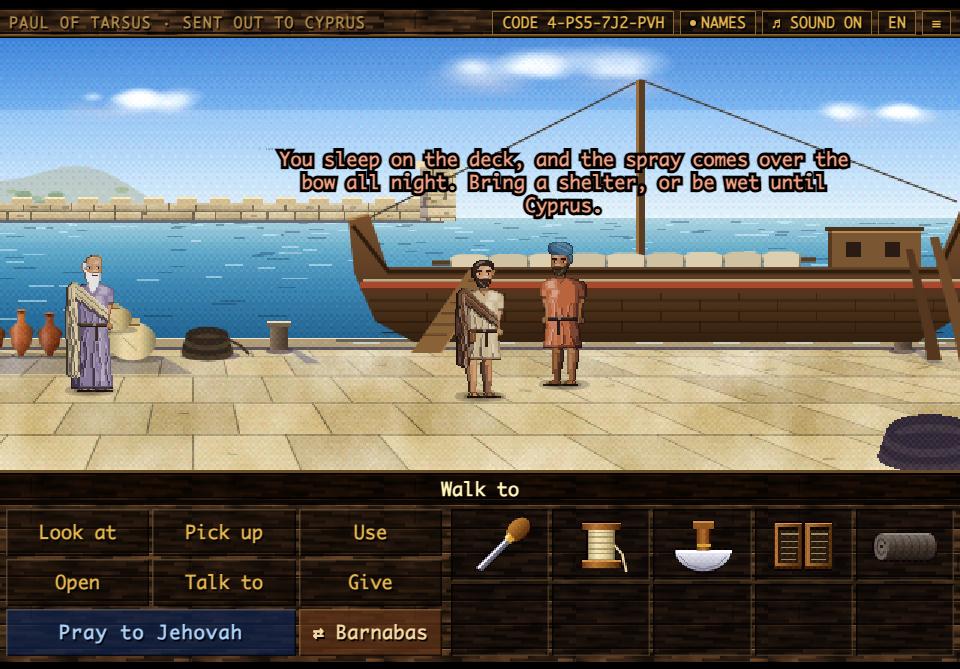
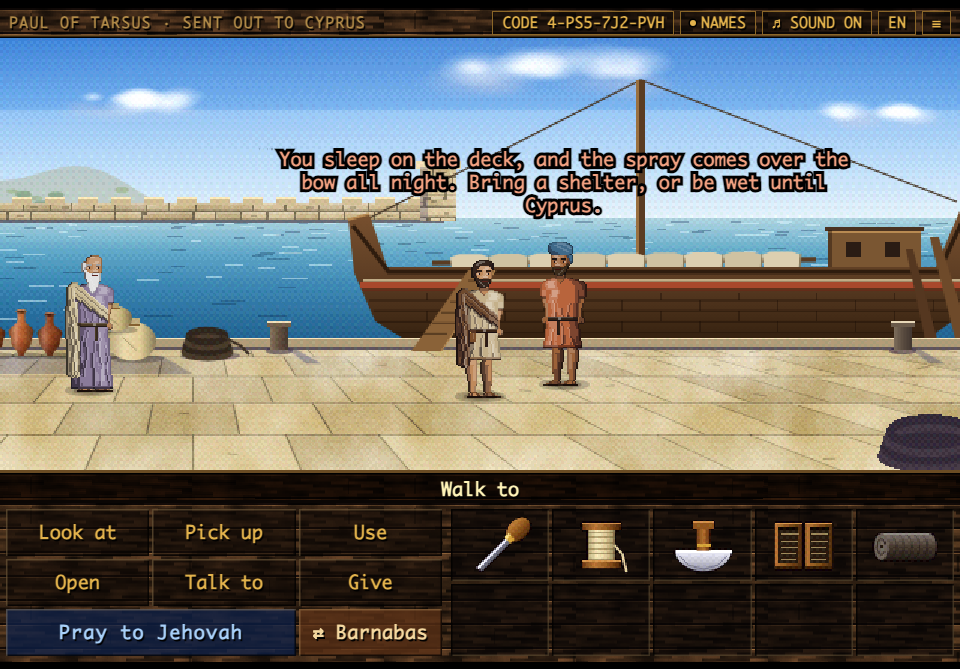
Chapter Four: clip the moored ship and her steering oars behind the quay

diff --git a/levels/chapter4.js b/levels/chapter4.js
@@ -41,7 +41,8 @@ function baggage(g,x,y){roll(g,x,y-5,17,5,'#8a5a4a');roll(g,x+3,y-9.6,15,4.6,'#6
    In harbor the yard is lowered to the rail with the sail furled on it, and the mast stands bare between its stays. Under sail (o.sail)
    the mast stops at the yard, so that the two never make a cross. o.plank: the gangplank to the quay; o.tent: our shelter on the
    foredeck; o.figs: a painter for the people on deck, who stand behind the rail. */
-function ship(g,X,Y,t,o){o=o||{};const y=Y+Math.round(Math.sin(t/900)*2)/2,PL=(p,c)=>poly(g,p.map((v,i)=>i%2?v+y:v+X),c),SK=(p,c,w)=>stroke(g,p.map((v,i)=>i%2?v+y:v+X),c,w),H=(a,b,w,h,c)=>R(g,X+a,b+y,w,h,c);
+function ship(g,X,Y,t,o){o=o||{};const y=Y+Math.round(Math.sin(t/900)*2)/2,PL=(p,c)=>poly(g,p.map((v,i)=>i%2?v+y:v+X),c),SK=(p,c,w)=>stroke(g,p.map((v,i)=>i%2?v+y:v+X),c,w),H=(a,b,w,h,c)=>R(g,X+a,b+y,w,h,c),
+  body=()=>{
   /* stays and mast */
   SK([97.5,13.4,6,60],'#4a3a2a',.6);SK([97.5,13.4,203,54],'#4a3a2a',.6);H(96,13.4,3.2,64,'#5a3c22');H(96,13.4,1,64,'#9a7040');
   if(o.sail){PL([50,15.4,146,11,146,13.6,50,18],'#5a3c22');SK([50,15.6,146,11.2],'#9a7040',.5);const sp=[53,17];for(let j=0;j<=10;j++)sp.push(51-Math.sin(j/10*3.1416)*6,17+j*4.4);for(let i=0;i<=10;i++)sp.push(51+i*9.2,61+Math.sin(i/10*3.1416)*3.5);for(let j=10;j>=0;j--)sp.push(143-Math.sin(j/10*3.1416)*4,13+j*4.8);
@@ -56,17 +57,25 @@ function ship(g,X,Y,t,o){o=o||{};const y=Y+Math.round(Math.sin(t/900)*2)/2,PL=(p
     SK([22,77,34,62.6,72,62.6,84,77],'#8a7a5a',.7);for(const q of[26,40,66,80])SK([q,74.6,q+1,77.4],'#8a7a5a',.6)}
   if(o.figs)o.figs(X,y);
   /* hull */
-  const hull=[0,60,7,58,13,76,196,76,204,57,212,52,211,66,203,93,190,101,22,101,9,94,2,78];
-  g.fillStyle=lg(g,0,56+y,0,101+y,['#7a5230','#5e3e24','#33200f']);g.beginPath();hull.forEach((v,i)=>{if(i%2)return;i?g.lineTo(X+v,hull[i+1]+y):g.moveTo(X+v,hull[i+1]+y)});g.closePath();g.fill();
-  SK([1.5,62,13.5,77.6,197,77.6,206,58],'#2e1c0e',1.4);SK([4,82,205,82],'#a8482c',2);SK([4,83.6,205,83.6],'#6a2a18',.6);SK([5,80.4,205,80.4],'#e2d2a8',.6);
-  /* strakes, their butt joints staggered from one to the next like courses of brick */
-  for(let j=0;j<4;j++){SK([7+j*1.4,87+j*3.6,204-j*1.8,87+j*3.6],'#2e1c0e',.5);for(let i=0;i<7;i++)H(26+i*26+(j%2)*13,84.4+j*3.6-(j?1:0),.6,j?3.6:2.6,'rgba(24,12,6,.4)')}
+  const hb=o.plank?102:101,hull=[0,60,7,58,13,76,196,76,204,57,212,52,211,66,203,93,190,hb,22,hb,9,94,2,78],
+    hp=()=>{g.beginPath();hull.forEach((v,i)=>{if(i%2)return;i?g.lineTo(X+v,hull[i+1]+y):g.moveTo(X+v,hull[i+1]+y)});g.closePath()};
+  g.fillStyle=lg(g,0,56+y,0,101+y,['#7a5230','#5e3e24','#33200f']);hp();g.fill();
+  clipTo(g,hp,()=>{
+    SK([4,82,205,82],'#a8482c',2);SK([4,83.6,205,83.6],'#6a2a18',.6);SK([5,80.4,205,80.4],'#e2d2a8',.6);
+    /* strakes, their butt joints staggered from one to the next like courses of brick */
+    for(let j=0;j<4;j++){SK([7+j*1.4,87+j*3.6,204-j*1.8,87+j*3.6],'#2e1c0e',.5);for(let i=0;i<7;i++)H(26+i*26+(j%2)*13,84.4+j*3.6-(j?1:0),.6,j?3.6:2.6,'rgba(24,12,6,.4)')}});
+  SK([1.5,62,13.5,77.6,197,77.6,206,58],'#2e1c0e',1.4);
   SK([0,60,7,58],'#b88a52',.8);SK([204.6,57,212,52.4],'#b88a52',.8);
   /* the two steering oars, one to each side of the stern */
-  PL([186,70,188.4,70,196,98,198,107,193,107,192,98],'#553720');PL([194,66,197,66,207,98,210,108,204,108,202,98],'#6e4a2a');
-  if(o.plank){PL([40,77,49,77,31,104.5,21,104.5],'#8a6238');for(let i=0;i<6;i++)SK([40-i*3,80.6+i*3.6,48-i*3,80.6+i*3.6],'#5a3e22',.6);SK([49,77,31,104.5],'#b88a52',.5)}
+  PL([186,70,188.4,70,196,98,198,107,193,107,192,98],'#553720');PL([194,66,197,66,207,98,210,108,204,108,202,98],'#6e4a2a')};
+  if(o.plank){inRect(g,0,0,480,100,body);
+    poly(g,[X+40,77+y,X+49,77+y,X+31,104.5,X+21,104.5],'#8a6238');
+    for(let i=0;i<6;i++){const y0=77+y+(27.5-y)*(i+1)*3.6/27.5;stroke(g,[X+40-i*3,y0,X+48-i*3,y0],'#5a3e22',.6)}
+    stroke(g,[X+49,77+y,X+31,104.5],'#b88a52',.5)}
+  else body();
   if(o.wake)for(let i=0;i<8;i++)R(g,X+214+i*9+(t/60%9),97.6+(i%2)+y,7-i*.6,.6,'#e6f2f4')}
 /* ---------- Seleucia: the harbor of Antioch, in the morning ---------- */
+function post4(g,x){g.fillStyle=lg(g,x-1,0,x+7,0,['#8a7a66','#5a4c40','#3a302c']);g.fillRect(x,96,6,8);R(g,x-1,94.6,8,2,'#6a5a4a');R(g,x-1,94.6,8,.6,'#e8d8b8')}
 ART.seleucia={w:480,fp:1.3,
  paint(g){const r=rng(211),ST='#d9cba6';
   sky(g,480,64,['#3f7cc6','#6ea4dc','#a6c8e6','#dfe9ec']);cloud(g,330,12,64,9,r);cloud(g,190,22,40,6,r);cloud(g,440,26,34,5,r);
@@ -89,7 +98,7 @@ ART.seleucia={w:480,fp:1.3,
   comp(g,'soft-light',.5,()=>{g.fillStyle=lg(g,0,103,0,144,['rgba(255,240,200,0)','rgba(255,240,200,.9)']);g.fillRect(0,103,480,41)});
   shade(g,[0,104,112,104,128,112,0,114],SH,.6);
   /* mooring posts */
-  for(const x of[236,444]){oval(g,x+3,104.4,4.6,1.2,'rgba(40,30,60,.5)');shade(g,[x+6,104,x+9,104,x+17,108.6,x+12,108.6],SH,.6);g.fillStyle=lg(g,x-1,0,x+7,0,['#8a7a66','#5a4c40','#3a302c']);g.fillRect(x,96,6,8);R(g,x-1,94.6,8,2,'#6a5a4a');R(g,x-1,94.6,8,.6,'#e8d8b8')}
+  for(const x of[236,444]){oval(g,x+3,104.4,4.6,1.2,'rgba(40,30,60,.5)');shade(g,[x+6,104,x+9,104,x+17,108.6,x+12,108.6],SH,.6);post4(g,x)}
   /* cargo for Cyprus: wine jars, sacks of grain */
   shade(g,[128,106,200,106,210,112,138,112],SH,.5);for(let i=0;i<4;i++)vessel(g,134+i*9.5,106,4.2,15-(i%2),['#a05a34','#8a4a2a','#b0683c','#96502e'][i],'amph');
   sack(g,177,106,7,11,'#cdbb8c');sack(g,190,107,8,13,'#d8c698');sack(g,184,97.4,6,8.6,'#c4b282');
@@ -100,8 +109,7 @@ ART.seleucia={w:480,fp:1.3,
  fore(g){vessel(g,18,152,12,34,'#6a3420','amph',{noShadow:1});sack(g,42,148,10,15,'#a89870');
   for(let i=0;i<4;i++){g.strokeStyle=i%2?'#3a3028':'#52463a';g.lineWidth=3;g.beginPath();g.ellipse(500,139-i*2.6,16-i,4.2,0,0,6.2832);g.stroke()}
   comp(g,'source-atop',.4,()=>R(g,0,0,530,150,'#34305a'))},
- draw(g,t){R(g,258,100.6,214,1,'rgba(20,40,60,.5)');for(let i=0;i<9;i++)R(g,262+i*24+Math.sin(t/500+i)*2,101.6,9,.6,'rgba(220,240,244,.6)');
-  ship(g,262,0,t,{plank:1})},
+ draw(g,t){ship(g,262,0,t,{plank:1});post4(g,444)},
  front(){}};
 /* ---------- Salamis: the square between the harbor and the synagogue ---------- */
 ART.salamis={w:480,fp:1.3,

diff --git a/tools/playtest-harness.html b/tools/playtest-harness.html
@@ -3112,6 +3112,10 @@
   ok(G.ch===4&&G.scene===CHAP[4].scenes.sendoff,'chapter four opens in Antioch, with the laying on of hands');
   BN=ACT.barnabas;
   await idle();ok(G.ch===4&&G.room==='seleucia'&&!G.scene&&!G.busy&&srt()==='awl,haircloth,knife,tablets,thread'&&BN.room==='seleucia'&&ACT.mark.room==='seleucia','chapter four starts on the quay at Seleucia');
+  {const snap=t=>{const c=document.createElement('canvas');c.width=480;c.height=144;const x=c.getContext('2d');ART.seleucia.paint(x);ART.seleucia.draw(x,t);return x.getImageData(0,0,480,144).data},
+    a=snap(1414),b=snap(4241),diff=(x0,x1,y0,y1)=>{let n=0;for(let y=y0;y<y1;y++)for(let x=x0;x<x1;x++){const i=(y*480+x)*4;if(a[i]!==b[i]||a[i+1]!==b[i+1]||a[i+2]!==b[i+2])n++}return n};
+   ok(diff(320,440,70,99)>0&&diff(453,472,70,99)>0&&diff(320,476,100,112)===0&&diff(444,450,95,104)===0,
+     'at Seleucia the ship and her steering oars rise and fall behind the quay edge and the mooring post, never in front of them')}
   halt('seleucia',()=>{say(BN,'seleucia_saul')});
   ok(/^4-[0-9A-Z]{3}-[0-9A-Z]{3}-[0-9A-Z]{3}$/.test(makeCode())&&decode(makeCode()).ch===4&&decode(makeCode()).w!=null,'chapter four code format (wide, nine characters) '+makeCode());
   ok($('#verbs').classList.contains('party')&&$('#swap').textContent.includes(T('Barnabas')),'a party again: the panel offers to switch to Barnabas');fitVerbs();

diff --git a/CONTRIBUTING.md b/CONTRIBUTING.md
@@ -99,7 +99,7 @@ The [Terms of Use](https://www.jw.org/en/terms-of-use/) of jw.org (which cover i
 - A round thing that lies on its side shows one end. Of a roll or a bale of cloth, a log or a jar on its side we see the end that is turned to us, as a face, and never the other: the far end is only the round outline of the thing, in the tones of its side, and what runs round it bends the way that outline does. The engine's `clothRoll` paints every roll and bale of cloth this way. Look at such a thing enlarged.
 - Water runs somewhere. A river or a channel has no end that stops short in the land: it comes out of the distance as a thread, widens as it nears, and its mouth lies in the sea or in a basin. Where it meets a shore, the line of the shore opens for it, and nothing grows in it. Look at both ends enlarged.
 - What stands on a sloping line stands on it. The battlements of a wall that runs away from us are blocks whose foot follows the slope of the wall's top: an upright block set on a slope leaves a wedge of sky under its far corner. Look at such a wall enlarged.
-- Close views follow the finer painterly standard of Chapters Thirteen and Fourteen (such as the sundial and the sealed tablet): fine-grained wood that never competes with incised letters or captions, veined and weathered stone, horizontal papyrus fibers, and soft contact shadows, rather than heavy high-contrast wood overlays or flat fills. A wooden ship's hull is painted in curved plank strakes with staggered butt joints stopping inside each course, never with flat floorboard texture.
+- Close views follow the finer painterly standard of Chapters Thirteen and Fourteen (such as the sundial and the sealed tablet): fine-grained wood that never competes with incised letters or captions, veined and weathered stone, horizontal papyrus fibers, and soft contact shadows, rather than heavy high-contrast wood overlays or flat fills. A wooden ship's hull is painted in curved plank strakes with staggered butt joints stopping inside each course, never with flat floorboard texture. A ship moored behind a quay, together with its steering oars, rises and falls behind the stone edge of the quay and any mooring posts on it, never in front of them; only the gangplank reaches over the quay edge onto the paving.
 - Inventory icons keep the dark wood panel unchanged; dark cloth, leather and wood items lift their midtones and carry a crisp rim sheen (`IH.roll` sets a top highlight) so they remain legible against the slots even when dimmed.
 - A lamp set in a recessed wall niche casts its light outward and downward from the opening (`nicheLight`), so the arch above occludes upward spill instead of throwing a bright circular halo onto the wall above it. Rain, wet paving and capillary damp along wall bases use the shared weather helper (`shared/weather.js`: short wind-slanted strokes, layered puddles and ripples).
 - Figures move when they speak, and the movement is drawn to the same standard: every frame of a mouth, a chin, a head or a hand is placed by hand in the figure painter, never made by scaling or turning another frame. After adding or changing one, look at all of them enlarged on `cast-talk.png` (`node tools/playtest.mjs cast`), for a chin or a beard that has come apart and for cross shapes; the playtest fails if a pose is in more than one piece. A figure that works with a tool in its hand, such as a hammer at an anvil, moves its arm with the tool through its frames and never leaves the arm hanging still while the tool moves. A figure that bows keeps its head still. A statue never moves.
